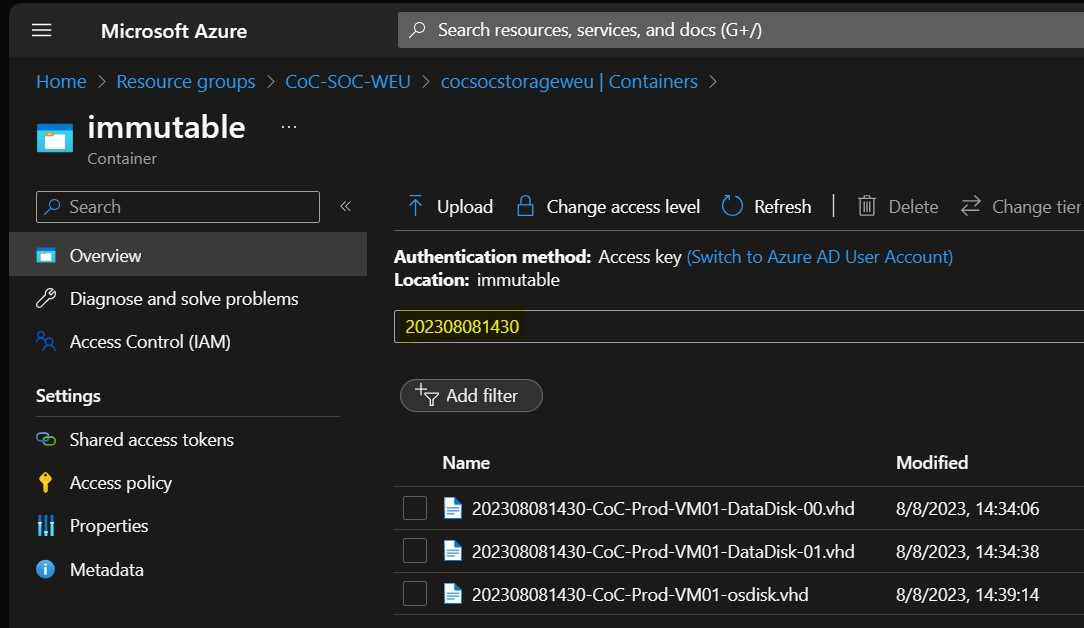
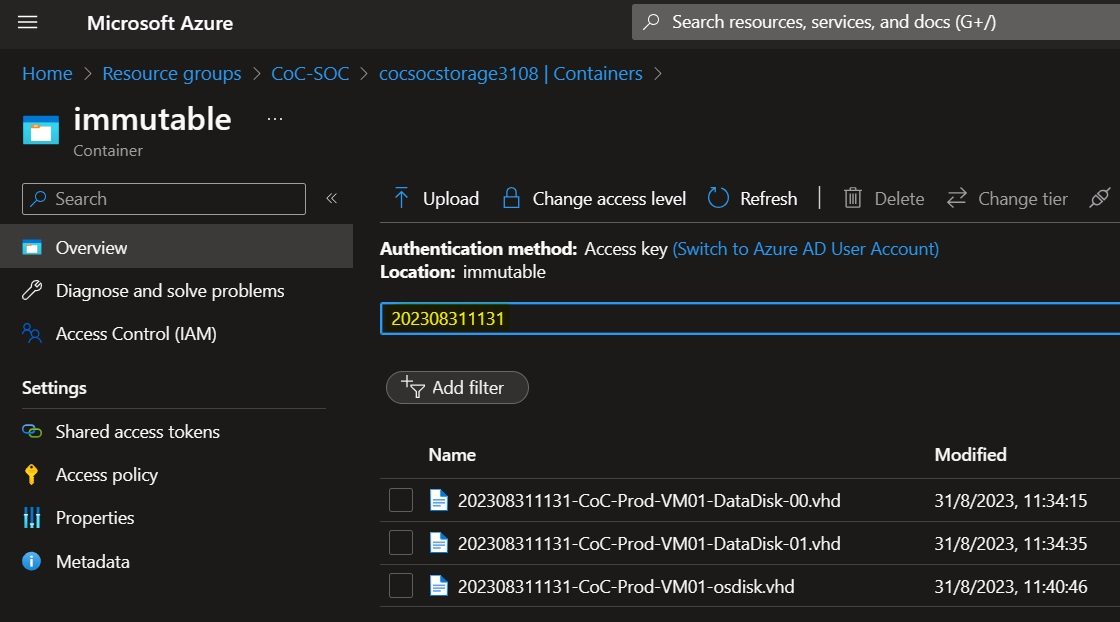
updates

diff --git a/README.md b/README.md
@@ -16,7 +16,7 @@ To initiate the deployment of the LAB environment, verify to have the *Owner* ro
 |Coc-prod-rg_name |The name of the resource group for the Production environment|CoC-Production|
 |Coc-prod-vnet_name |The name of the virtual network for the Production environment|CoC-Production-vnet|
 |Coc-prod-nsg_name |The name of the network security group for the Production environment|CoC-Production-vnet-server-nsg|
-|Coc-prod-keyvault_name |The name of the key vault for the Production environment|CoC-Production-keyvault-\<UNIQUESTRING>|
+|Coc-prod-keyvault_name |The name of the key vault for the Production environment|CoC-Production-KV-\<UNIQUESTRING>|
 |Coc-prod-VM01_name |The name of the VM for the Production environment|CoC-Prod-VM01|
 |Coc-prod-VM01_adminUsername |The name of the admin user for the VM for the Production environment|cocprodadmin|
 |Coc-prod-VM01_adminPassword|The password of the admin user for the VM for the Production environment||
@@ -24,9 +24,9 @@ To initiate the deployment of the LAB environment, verify to have the *Owner* ro
 |Coc-soc-rg_name |The name of the resource group for the SOC environment|CoC-SOC|
 |Coc-soc-vnet_name |The name of the virtual network for the SOC environment|CoC-SOC-vnet|
 |Coc-soc-nsg_name |The name of the network security group for the SOC environment|CoC-SOC-vnet-soc-subnet01-nsg|
-|Coc-soc-keyvault_name |The name of the key vault for the SOC environment|CoC-SOC-keyvault-\<UNIQUESTRING>|
+|Coc-soc-keyvault_name |The name of the key vault for the SOC environment|CoC-SOC-KV-\<UNIQUESTRING>|
 |Coc-soc-storageAccount_name |The name of the storage account for the SOC environment|cocsocstorage-\<UNIQUESTRING>|
-|Coc-soc-LogAnWks_name |The name of the Log Analytics Workspace for the SOC environment|CoC-SOC-LogAnWks-\<UNIQUESTRING>|
+|Coc-soc-LogAnWks_name |The name of the Log Analytics Workspace for the SOC environment|CoC-SOC-LA-\<UNIQUESTRING>|
 |Coc-soc-automatioAccount_name |The name of the automation account for the SOC environment|CoC-SOC-AutomationAcct|
 |CoC-SOC-workerGroup_name|The name of the Hybrid Worker Group for the SOC environment|CoC-HRW-Windows|
 |Coc-soc-HRW_VM_name |The name of the Hybrid RunBook Worker VM for the SOC environment|CoC-SOC-HRW|
@@ -80,20 +80,75 @@ Once the job concludes, examine the job's Output to verify successful completion
 
 ![Screenshot of a completed job](./.diagrams/JobCompleted_Out.jpg)
 
-The output shows the name of the digital evidence composed by a timestamp prefix followed by the name of the disk. For example the prefix for a job started on 8th August 2023 at 14:30 UTC will be *202308081430_*.  
-The digital evidence is stored in the *immutable* blob container of the storage account in the SOC resource group and can be downloaded for inspection. 
+The output shows the name of the digital evidence composed by a timestamp prefix followed by the name of the disk. For example the prefix for a job started on 31st August 2023 at 11:31 will be *202308311131_*.  
+The digital evidence is stored in the *immutable* blob container of the storage account in the SOC resource group and can be downloaded for inspection.
 > [!NOTE]
 > Add your IP address to both the Key Vault firewall and the Storage Account firewall.
 
 ![Screenshot of the immutable container](./.diagrams/JobCompleted_SA.jpg)
-The hash of the digital evidence is stored in the Key Vault of the SOC stored with the same name of the digital evidence followed by the suffix "-hash" and the algorithm used. The BEK keys are stored in the key vault of the SOC with the name of the digital evidence.
+The hash of the digital evidence is stored in the Key Vault of the SOC stored with the same name of the digital evidence followed by the suffix "-hash" and the algorithm used. The BEK secrets are stored in the key vault of the SOC with the name of the digital evidence. 
 ![Screenshot of the Key Vault](./.diagrams/JobCompleted_KV.jpg)
 After downloading digital evidence, recalculate the hash for comparison with the KeyVault-stored hash to verify integrity.
 
 > [!NOTE]
 > The [Appendixes](#appendixes---hash-utility) section below provides a PowerShell script to recalculate the hash of the digital evidence.
 
-For digital evidence decryption, get the BEK keys from the SOC environment's Key Vault and follow instructions outlined in the [article](https://learn.microsoft.com/en-us/azure/architecture/example-scenario/forensics/#evidence-retrieval).
+For digital evidence decryption, get the BEK keys from the SOC environment's Key Vault and follow instructions outlined in the section below.
+
+> [!NOTE]
+> As the VM deployed in this LAB environment is a Windows Server, you can follow the instructions provided in the [Windows disk unlock](#windows-disks-unlock) section. If you wish to extend the LAB with a Linux VM that has ADE enabled, the [Linux disk unlock](#linux-disks-unlock) section  provides detailed steps for digital evidence decryption on Linux.
+The sections assume that the optional KEK encryption is not used to wrap the BEK. For more information on how to unlock an encrypted disk for offline repair, please refer to https://learn.microsoft.com/en-us/troubleshoot/azure/virtual-machines/unlock-encrypted-disk-offline
+
+#### Windows disks unlock
+
+The Azure Windows data disk is locked by BitLocker. Once the disk is attached on a Windows machine the content is not readable, until it's unlocked.
+
+To unlock an Azure data disk connected, for example, on G:\ execute below actions:
+
+1. Open the SOC key vault, and search the secret containing the BEK of the disk. The secret is named with the timestamp prefix shown in the output of the RunBook execution
+![Screenshot of the BEK secret](./.diagrams/JobCompleted_KV_BEKSecret.jpg)
+1. Copy the BEK secret value and paste it into the `$bekSecretBase64` variable in the following PowerShell script. Paste the value of the `DiskEncryptionKeyFileName` tag associated to the secret into the `$fileName` variable
+1. Run the script
+
+    ```powershell
+    $bekSecretbase64="<paste the BEK string here>"
+    $fileName="<paste the DiskEncryptionKeyFileName tag value here>"
+
+    $bekFileBytes = [Convert]::FromBase64String($bekSecretbase64)
+    $path = "C:\BEK\$fileName"
+    [System.IO.File]::WriteAllBytes($path,$bekFileBytes)
+
+    manage-bde -unlock G: -rk $path
+    ```
+
+#### Linux disks unlock
+
+The Azure Linux data disk is locked by DM-Crypt. The content of the disk is not accessible until the disk is unlocked.
+
+To unlock an Azure data disk and mount it under the directory `datadisk`:
+
+1. Open the SOC key vault, and search the secret containing the BEK of the disk. The secret is named with the timestamp prefix shown in the output of the RunBook execution
+1. Copy the BEK string and paste it into the `bekSecretBase64` variable in the following bash script
+1. Run the script
+
+    ```bash
+   #!/bin/bash
+
+   bekSecretbase64="<paste the BEK string here>"
+   mountname="datadisk"
+   device=$(blkid -t TYPE=crypto_LUKS -o device)
+   passphrase="$(base64 -d <<< $bekSecretbase64)"
+
+   echo "Passphrase: " $passphrase
+
+   if [ ! -d "${mountname:+$mountname/}" ]; then
+    mkdir $mountname
+   fi
+
+   cryptsetup open $device $mountname
+    ```
+
+After the script execution, you will be prompted for the encryption passphrase. Copy it from the script output to unlock and access the content of the Azure data disk.
 
 ## Remove the LAB environment
 To remove the LAB environment, delete the resource groups created for the Production and SOC environments. Please note that to delete the SOC resource group, you must first allow your IP address through the Firewall of the storage account and delete the Legal Hold Access Policy from the *immutable* container in the storage account as shown in the screenshots below.
